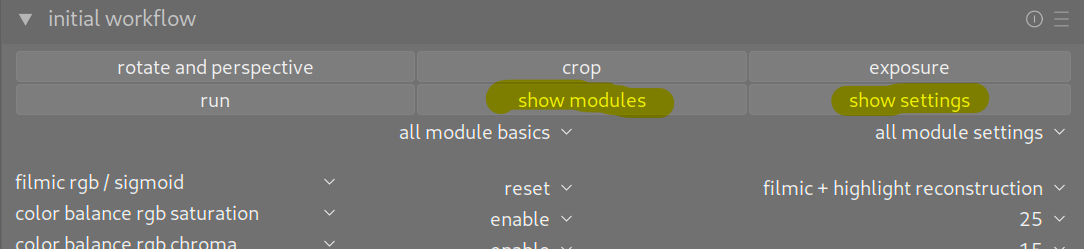
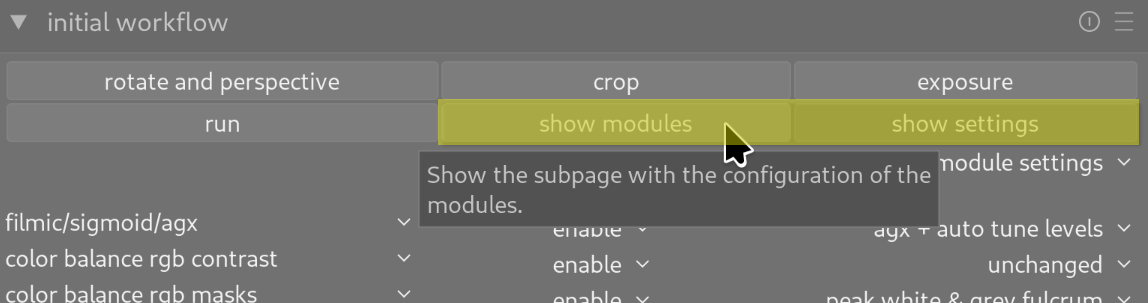
update readme, release notes and documentation

diff --git a/README.md b/README.md
@@ -37,35 +37,36 @@
 
 #### Subpage "Modules"
 
-- Choose "show modules" and adapt your personal configuration for each step of the entire workflow. Several steps and configurations are offered, see the tooltips within the module for more information. Each step of the workflow addresses a module of the pipeline in the darktable darkroom view. Your settings are saved in darktable preferences and restored after the next start of the application
+- Choose "show modules" and adapt your personal configuration for each step of the entire workflow. Several steps and configurations are offered, see the tooltips within the module for more information. Each step of the workflow addresses a module of the pipeline in the darktable darkroom view. Your settings made here are saved in darktable preferences and restored after the next start of the application. After updating to a new major version of this script, your settings will be reset to their default values.
 
 >><img src="ReadmeImages/ScreenshotModuleDefaults.png" width=450>
 
 - Every step provides two configurations: The first one is a basic configuration that is applied before actually performing the main configuration. You can decide, if you want to ignore, enable, reset or disable the module. There are various possibilities:
 
 >><img src="ReadmeImages/ScreenshotModuleStepConfigurationBasic.png" width=100>
->- The predefined <code>default</code> value (one of the following) can be set.
->- The workflow step can be <code>ignored</code> at all, the corresponding module remains unchanged, regardless of the second setting.
->- The module can first be <code>enabled</code> in order to apply the selected configuration afterwards, based on current module settings.
->- A module <code>reset</code> can be carried out, the selected configuration is then applied based on default module settings.
->- The module can be <code>disabled</code> without making any further changes and regardless of the second setting.
+>- The predefined <code>default</code> value (one of the following) can be set. The workflow step can be <code>ignored</code> at all, the corresponding module remains unchanged, regardless of the second setting. The module can first be <code>enabled</code> in order to apply the selected configuration afterwards, based on current module settings. A module <code>reset</code> can be carried out, the selected configuration is then applied based on default module settings. The module can be <code>disabled</code> without making any further changes and regardless of the second setting.
 
-- The second configuration depends on your first and basic configuration. If the basic configuration is set to <code>reset</code> or <code>enable</code>, the second configuration is applied. If you choose <code>unchanged</code>, the corresponding module keeps unchanged (apart from the basic configuration above). Each step offers several choices, for example:
+- The second configuration depends on your first and basic configuration. If the basic configuration is set to <code>reset</code> or <code>enable</code>, the second configuration is applied after the selected base configuration. If you choose <code>unchanged</code>, the corresponding module keeps unchanged (apart from the basic configuration above). Each step offers several choices, for example:
 <br>
 >><img src="ReadmeImages/ScreenshotModuleStepConfigurationFilmic.png" width=250>
-
 <br>
+
 - Via <code>all module basics</code> and <code>all module settings</code> you can select standard configurations for all steps.
+<br>
+>><img src="ReadmeImages/ScreenshotAllModuleSettings.png" width=450>
+<br>
 
 #### Subpage "Settings"
 
-- Choose "show settings" and adapt the common settings. Several common settings are offered, see the tooltips for more information. Your settings are saved in darktable preferences and restored after the next start of the application.
+- Choose "show settings" and adapt the common settings. Several common settings are offered, see the tooltips for more information. Your settings are saved in darktable preferences and restored after the next start of the application. After updating to a new major version of this script, your settings will be reset to their default values.
 
 >><img src="ReadmeImages/ScreenshotCommonSettingsSubpage.png" width=450>
 
-- Do you want to know more about what the individual steps of the workflow change? You can activate <code>show modules</code>. During script execution in darkroom view, modules are displayed as changes are made. This way you will see the changes made. Best practices: Select <code>ignore</code> for all steps. Then activate <code>enable</code> or <code>reset</code> for the step that interests you and configure it. With <code>run</code> only this one configuration is executed and the affected module is displayed.
+- Do you want to know more about what the individual steps of the workflow change? You can activate <code>show modules</code>. During script execution in darkroom view, modules are displayed as changes are made. This way you will see the changes made.
 
-- Via <code>all common settings</code> you can select standard configurations for these settings. You can activate or deactive all common settings. 
+- With <code>apply changes directly after input</code> your configuration will be applied directly without running the script. If a setting in this module is changed, the corresponding workflow step is executed directly. The associated individual module is configured. This allows you to see the changes made by each configuration without having to run the entire workflow. This helps you understand the changes made through the configuration.
+
+- Via <code>all common settings</code> you can select standard configurations for all these settings. You can activate or deactive all common settings whtin this subpage. 
 
 ### Execution
 
@@ -86,11 +87,11 @@
 
 ### Prerequisites
 
-- This script requires darktable 5.0. The script was developed and tested on Linux (Arch-based EndeavourOs), but it should also work on Windows. You need darktable and Lua installed on your machine. See darktable documentation for your first steps: https://docs.darktable.org/usermanual and choose chapter "Scripting with Lua" in the left panel.
+- This script requires darktable 5.4. The script was developed and tested on Linux (Arch-based EndeavourOs), but it should also work on Windows. You need darktable and Lua installed on your machine. See darktable documentation for your first steps: https://docs.darktable.org/usermanual/development/en/ and choose chapter "Scripting with Lua" in the left panel.
 
 ### Lua examples folder
 
-Some examples and contributed scripts come with your darktable lua installation. The initial module script can be installed at the same place.
+Some examples and contributed scripts come with your darktable lua installation. The initial workflow module script can be installed at the same place.
 
 - lua script folders on Linux: <br><code>/home/[user_name]/.config/darktable/lua/examples</code>
 

diff --git a/ReleaseNotes.md b/ReleaseNotes.md
@@ -1,0 +1,74 @@
+# Release Notes
+
+## v2.0.0 darktable 5.4 with AgX
+January 31, 2026
+
+- support for darktable 5.4
+
+- add new AgX module configuration as an alternative for filmic and sigmoid 
+- add new demosaic capture sharpen option to reconstruct pixels from sensor data and recover details lost due to in-camera blurring
+- add color look up table module with preferences
+- add creator and copyright meta data as offered by metadata editor and image information module. These values are exported to jpg meta data.
+- remove workflow steps for global chroma and saturation 
+- add new common setting to run single step directly when single setting changes
+- support new module preset names (with dt5.2 and 5.4)
+
+- after updating to a new major version of this script, your settings will be reset to their default values.
+- some minor refactoring
+- use enable as new default basic setting instead of reset
+
+## v1.5.1 Pre-Release bugfix: Prevent exception, if requiring a submodule fails
+December 1, 2024
+
+- prevent exception, if requiring a submodule fails
+- extend lua package.path if neccessary
+- submodules are now named more "unique"
+- rename Modules folder to "lib"
+- submodules are no longer displayed in the script manager
+
+## v1.5.0 Pre-Release for darktable 4.9
+November 25, 2024
+
+- supports darktable 4.9 / 5.0
+- new option for color calibration module: set white balance to detected from area
+- refactoring, split source files
+- user interface: separate module configuration and other settings
+- show progress bar during script run
+- option to cancel current script run
+- some minor bugfixes
+- tested with dt4.9.0+1170 (2024-11-25)
+
+## v1.4.0 Support darktable 4.8
+June 30, 2024
+
+- some minor changes to support darktable 4.8 (new option in whitebalance module).
+
+## v1.3.0 Create release archive
+June 22, 2023
+
+- create release archive to simplify script manager integration
+
+## v1.2.0 Extended configuration and language support
+June 17, 2023
+
+- reorganized and more flexible user interface.
+- new options, more supported modules in darkroom view.
+- support for additional languages for the main controls, depending on the configuration in the darktable settings.
+
+## v1.1.0 German translation
+May 21, 2023
+
+- depending on the configuration, the script outputs are now in English or German.
+- the basis for further translations has been prepared.
+
+## v1.0.1 Bugfix release.
+April 3, 2023
+
+- Bugfix: Enable buttons depending on darktable view. Avoid darktable crash.
+
+## v1.0.0 First release.
+March 30, 2023
+
+- this is the first release of the Initial Workflow Module for darktable.
+
+- darktable 4.2.1 and 4.3.0 (in preparation for 4.4) are supported.
